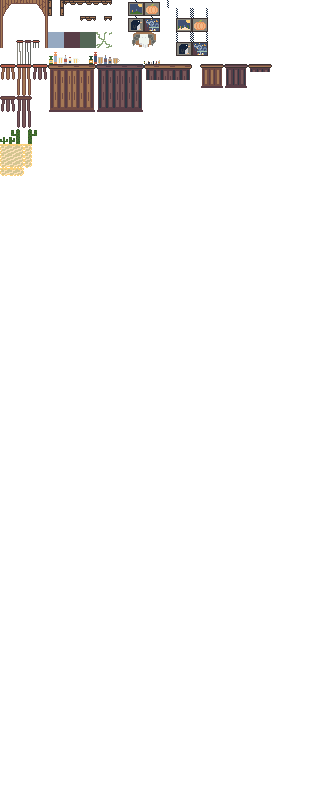
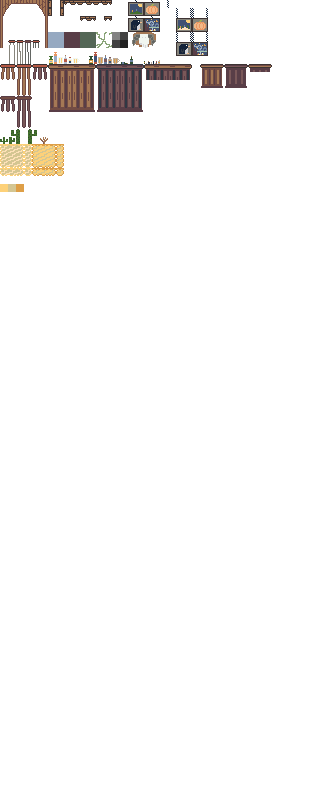
Finish Saloon cutscene?

Changed region(s): [[0.0, 0.1562, 0.2188, 0.25], [0.3438, 0.0312, 0.4062, 0.0625]]

diff --git a/tiled/CowboyTilemap.tsx b/tiled/CowboyTilemap.tsx
@@ -1,5 +1,5 @@
 <?xml version="1.0" encoding="UTF-8"?>
-<tileset version="1.11" tiledversion="1.11.2" name="CowboyTilemap" tilewidth="8" tileheight="8" tilecount="4000" columns="40">
+<tileset version="1.10" tiledversion="1.10.1" name="CowboyTilemap" tilewidth="8" tileheight="8" tilecount="4000" columns="40">
  <image source="CowboyTilemap.png" width="320" height="800"/>
  <tile id="8" type="wall"/>
  <tile id="9" type="wall"/>
@@ -12,6 +12,7 @@
  <tile id="90" type="onewaywall"/>
  <tile id="91" type="onewaywall"/>
  <tile id="93" type="wall"/>
+ <tile id="201" type="wall"/>
  <tile id="202" type="wall"/>
  <tile id="204" type="onewaywall"/>
  <tile id="320" type="wall"/>
